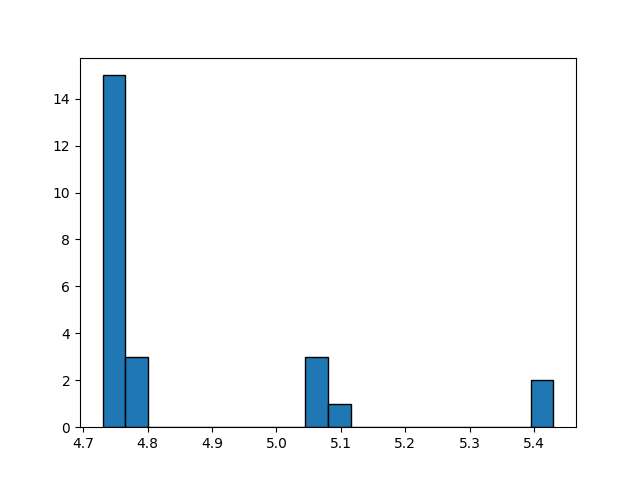
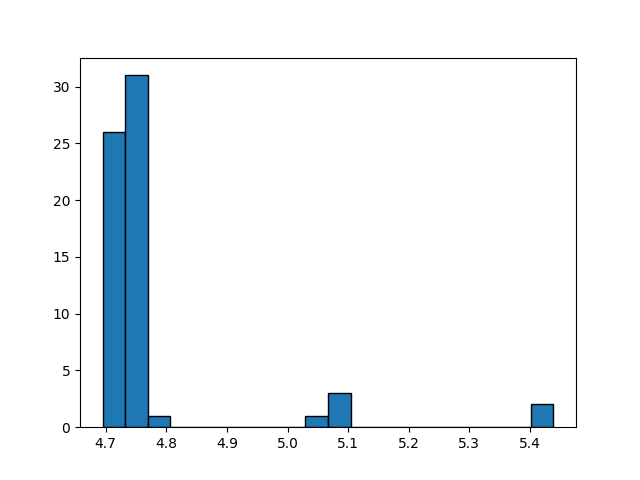
Update aioquic, picoquic, lsquic

diff --git a/Array.py b/Array.py
@@ -12,6 +12,7 @@ aioquic = []
 picoquic = []
 quiche = []
 ngtpc2 = []
+lsquic=[]
 
 def leggi_file_excel(nome_file):
     try:
@@ -38,6 +39,7 @@ for riga in dati_array:
     picoquic.append(riga[1])
     quiche.append(riga[2])
     ngtpc2.append(riga[3])
+    lsquic.append(riga[4])
 
 plt.hist(aioquic, edgecolor='black', bins=20)
 plt.savefig("aioquic.png")
@@ -55,3 +57,7 @@ plt.hist(ngtpc2, edgecolor='black', bins=20)
 plt.savefig("ngtpc2.png")
 plt.figure().clear()
 
+
+plt.hist(lsquic, edgecolor='black', bins=20)
+plt.savefig("lsquic.png")
+plt.figure().clear()
